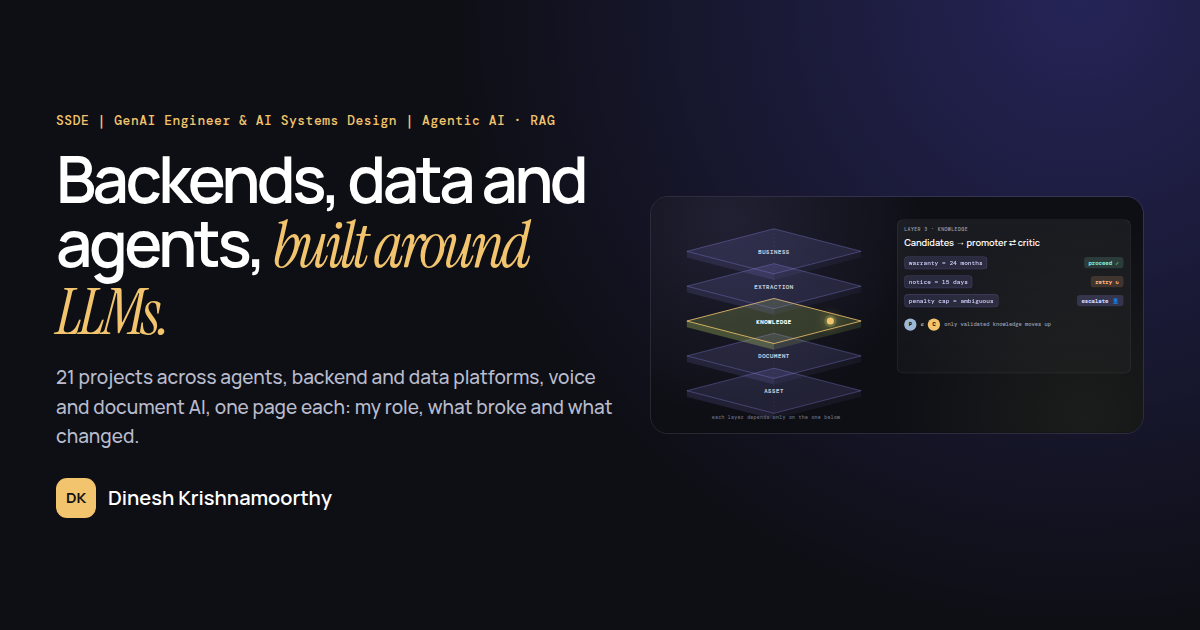
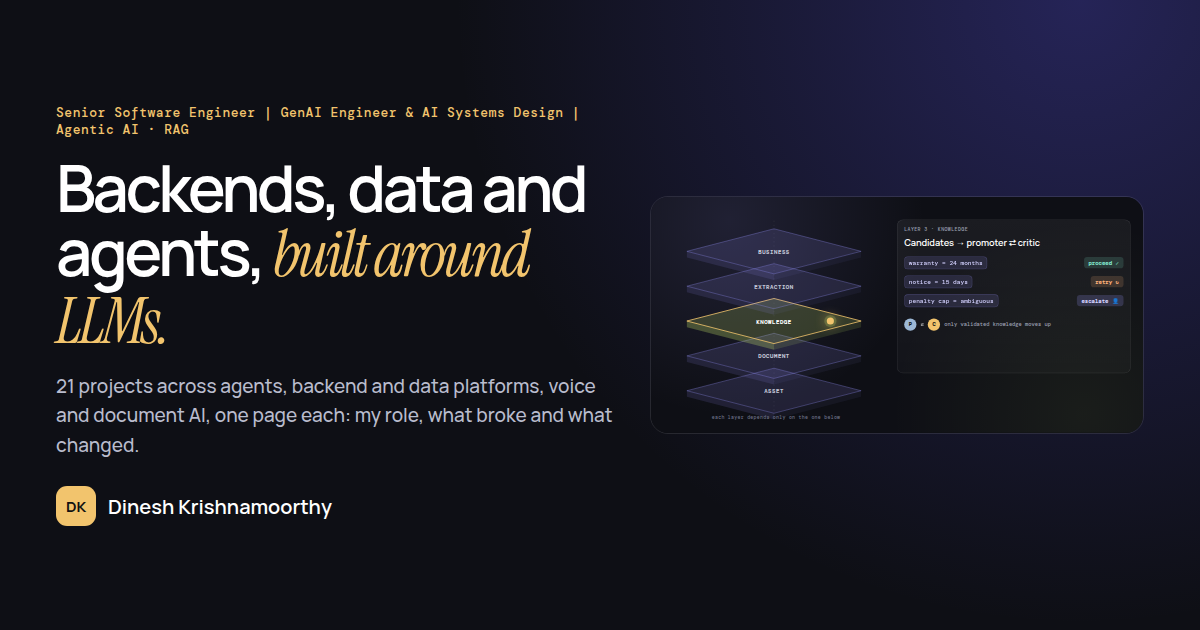
Headline: spell out Senior Software Engineer

diff --git a/index.html b/index.html
@@ -5,7 +5,7 @@
   <meta name="viewport" content="width=device-width, initial-scale=1" />
   <meta name="theme-color" content="#0f1016" />
   <title>Dinesh Krishnamoorthy · GenAI Engineer &amp; AI Systems Design</title>
-  <meta name="description" content="Dinesh Krishnamoorthy, SSDE | GenAI Engineer &amp; AI Systems Design | Agentic AI · RAG. 21 projects across LLM and agent applications, backend and data platforms, voice and document AI, each with its own page: my role, the problem, what broke and what changed." />
+  <meta name="description" content="Dinesh Krishnamoorthy, Senior Software Engineer | GenAI Engineer &amp; AI Systems Design | Agentic AI · RAG. 21 projects across LLM and agent applications, backend and data platforms, voice and document AI, each with its own page: my role, the problem, what broke and what changed." />
   <meta property="og:title" content="Dinesh Krishnamoorthy · Backends, data and agents, built around LLMs" />
   <meta property="og:description" content="21 projects across agents, backend and data platforms, voice and document AI, each with its own page. Clients anonymised, documents synthetic." />
   <meta property="og:type" content="website" />
@@ -34,7 +34,7 @@
           <div class="hs-meta mono" aria-hidden="true"><span>profile · p.1/1</span><span id="hsState">unread</span></div>
           <div class="hs-beam" id="hsBeam" aria-hidden="true"></div>
           <p class="hero-name"><span class="hs-f" data-k="name">Dinesh Krishnamoorthy</span></p>
-          <p class="hero-title mono"><span class="hs-f" data-k="title">SSDE | GenAI Engineer &amp; AI Systems Design | Agentic AI · RAG</span></p>
+          <p class="hero-title mono"><span class="hs-f" data-k="title">Senior Software Engineer | GenAI Engineer &amp; AI Systems Design | Agentic AI · RAG</span></p>
           <h1 class="hero-h1" id="heroH1">Backends, data and agents, <em class="it">built around LLMs.</em></h1>
           <p class="hero-sub">I’m a <span class="hs-f" data-k="role">Senior Software Engineer</span> working across software engineering and generative AI: <span class="hs-f" data-k="w0">voice</span>, <span class="hs-f" data-k="w1">text</span>, <span class="hs-f" data-k="w2">documents</span> and <span class="hs-f" data-k="w3">business data</span>. Most of my time goes on the engineering around the model: getting the data into shape, connecting LLMs to APIs and tools, and making sure the output can be checked.</p>
           <div class="hero-cta">

diff --git a/assets/app.js b/assets/app.js
@@ -433,7 +433,7 @@
     jsonEl.innerHTML = [
       ['open', '{'],
       ['name', '  <i class="jk">"name"</i>: <i class="js" data-k="name">"Dinesh Krishnamoorthy"</i>,'],
-      ['title', '  <i class="jk">"title"</i>: <i class="js" data-k="title">"SSDE | GenAI Engineer &amp; AI Systems Design | Agentic AI · RAG"</i>,'],
+      ['title', '  <i class="jk">"title"</i>: <i class="js" data-k="title">"Senior Software Engineer | GenAI Engineer &amp; AI Systems Design | Agentic AI · RAG"</i>,'],
       ['thesis', '  <i class="jk">"thesis"</i>: <i class="js" data-k="thesis">"I design the system around the model."</i>,'],
       ['builds', '  <i class="jk">"builds"</i>: [<i class="js" data-k="b0">"document intelligence"</i>, <i class="js" data-k="b1">"RAG"</i>, <i class="js" data-k="b2">"agentic systems"</i>],'],
       ['evidence', `  <i class="jk">"projects"</i>: <a class="js" href="${U.projects}">"${ALL.length} projects + ${BRIEFS.length} smaller builds →"</a>`],
@@ -944,7 +944,7 @@
   const LINES = [
     ['open', '{'],
     ['name', `  <i class="jk">"name"</i>: ${v('name', 'Dinesh Krishnamoorthy')},`],
-    ['title', `  <i class="jk">"title"</i>: ${v('title', 'SSDE | GenAI Engineer &amp; AI Systems Design')},`],
+    ['title', `  <i class="jk">"title"</i>: ${v('title', 'GenAI Engineer &amp; AI Systems Design')},`],
     ['role', `  <i class="jk">"role"</i>: ${v('role', 'Senior Software Engineer')},`],
     ['w', `  <i class="jk">"works_with"</i>: [${v('w0', 'voice')}, ${v('w1', 'text')}, ${v('w2', 'documents')}, ${v('w3', 'business data')}],`],
     ['shipped', `  <i class="jk">"in_production"</i>: <i class="jn">["bid pricing agents", "NBFC co-lending platform", "prior-auth document AI"]</i>,`],
